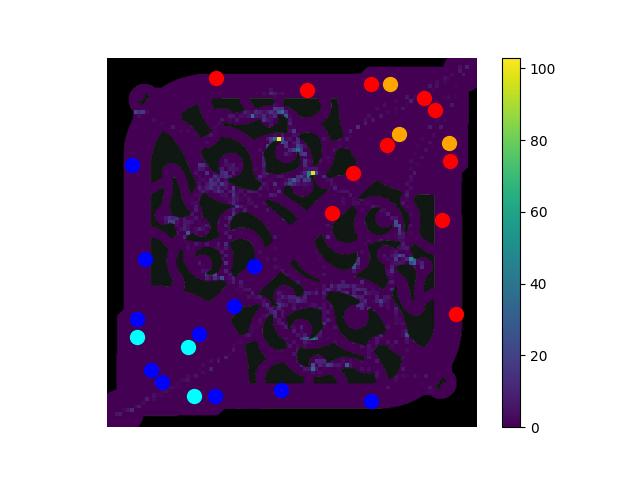
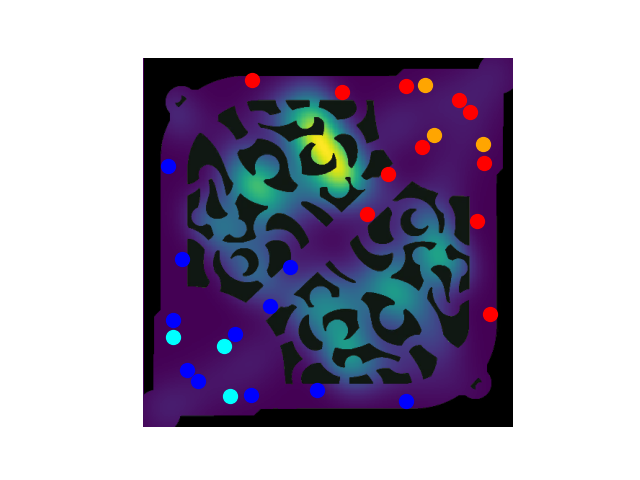
Adding Heatmap feature

diff --git a/src/main.py b/src/main.py
@@ -14,6 +14,7 @@ from utils_stuff.utils_func import getSummaryData, getData
 from utils_stuff.Types import *
 from utils_stuff.plots.plotsTeam import *
 from utils_stuff.stats import *
+from utils_stuff.plots.densityPlot import densityPlot
 from errorHandling import checkMatchName, checkTeamComposition
 
 from EMH.Details.DetailsData import DetailsData
@@ -32,6 +33,7 @@ if __name__ == "__main__":
     
     parser.add_argument("-p", "--pathing", action="store_true", default=False, help="Tells if we want to print pathing of players")
     parser.add_argument("-a", "--anim", action="store_true", default=False, help="Tells if we want to plot animations. Only with --pathing option")
+    parser.add_argument("-d", "--density", action="store_true", default=False, help="Tells if we want to plot the position density. Only with --pathing option")
     parser.add_argument("-g", "--game", metavar="[1|2|3|4|5|BO]", type=str, help="Game to analyse or if we want the whole Best-Off")
     parser.add_argument("-o", "--overview", action="store_true", default=False, help="Compute game stat of players")
     parser.add_argument("-t", "--time", metavar="[time_wanted_in_seconds]", type=int, help="Game time to analyse")
@@ -44,6 +46,7 @@ if __name__ == "__main__":
 
     pathing = False
     anim = False
+    density = False
     game = ""
     overview = False
     time = 0
@@ -65,13 +68,15 @@ if __name__ == "__main__":
             load = value
         if arg == "jungle_prox":
             jungleProximity = value
+        if arg == "density":
+            density = value
 
     yamlParser : YamlParer = YamlParer("./config.yml")
 
     assert checkMatchName(yamlParser, DATA_PATH)
 
     if pathing:
-        assert game != "BO"
+        
         
         # Loading data of the game
         match = yamlParser.ymlDict['match']
@@ -99,7 +104,11 @@ if __name__ == "__main__":
         if not(os.path.exists(yamlParser.ymlDict['save_path'] + "/Position/{}/".format(yamlParser.ymlDict['match']))):
             os.makedirs(yamlParser.ymlDict['save_path'] + "/Position/{}/".format(yamlParser.ymlDict['match']))
         if anim:
+            assert game != "BO"
             print("Ploting pathing with animation of game {} for players {}".format(game, playerNameList))
+            if not(os.path.exists("{}/Position/PositionAnimated/{}/".format(yamlParser.ymlDict['save_path'], yamlParser.ymlDict['match']))):
+                    os.makedirs("{}/Position/PositionAnimated/{}/".format(yamlParser.ymlDict['save_path'], yamlParser.ymlDict['match']))
+            
             i = 0
             for split in splittedDataset:
                 name = ""
@@ -108,7 +117,28 @@ if __name__ == "__main__":
                     path = "{}/Position/{}/".format(yamlParser.ymlDict['save_path'], yamlParser.ymlDict['match'])
                     plotBothTeamsPositionAnimated(playerNameList[0], playerNameList[1], split, name, path)        
                 i += 1
+        elif density:
+            if game != "BO":
+                print("Plotting position density of game {} for players {}".format(game, playerNameList))
+                if not(os.path.exists("{}/Position/PositionDensity/{}/".format(yamlParser.ymlDict['save_path'], yamlParser.ymlDict['match']))):
+                    os.makedirs("{}/Position/PositionDensity/{}/".format(yamlParser.ymlDict['save_path'], yamlParser.ymlDict['match']))
+                save_path = "{}/Position/PositionDensity/{}/".format(yamlParser.ymlDict['save_path'], yamlParser.ymlDict['match'])
+                
+                i = 0
+                print([len(split.gameSnapshotList) for split in splittedDataset])
+                for split in splittedDataset:
+                    graph_name = ""
+                    if i < len(splitList):
+                        # For team one
+                        graph_name = "position_density_teamOne_{}_g{}_{}".format(splitList[i], game, yamlParser.ymlDict['match'])
+                        densityPlot(playerNameList[0], graph_name, save_path, split)
+
+                        # For team two
+                        graph_name = "position_density_teamTwo_{}_g{}_{}".format(splitList[i], game, yamlParser.ymlDict['match'])
+                        densityPlot(playerNameList[1], graph_name, save_path, split)
+                    i += 1
         else:
+            assert game != "BO"
             print("Plotting pathing without animation of game {} for players {}".format(game, playerNameList))
             i = 0
             for split in splittedDataset:

diff --git a/src/utils_stuff/plots/densityPlot.py b/src/utils_stuff/plots/densityPlot.py
@@ -1,0 +1,62 @@
+import numpy as np
+from scipy.stats import gaussian_kde
+import matplotlib.pyplot as plt
+from PIL import Image
+
+from Separated.SeparatedData import SeparatedData
+from utils_stuff.Position import Position
+from utils_stuff.globals import *
+
+
+def densityPlot(participantNames : list[str], graphName : str, save_path : str, data : SeparatedData):
+    # Getting player positions
+    participantIds : list[int] = [data.getPlayerID(playerName) for playerName in participantNames]
+    participantPositions : list[Position] = list()
+    for playerId in participantIds:
+        participantPositions += data.getPlayerPositionHistory(playerId)
+
+    # Splitting positions and adding map borders to it
+    x = [(lambda pos : pos.x)(pos) for pos in participantPositions]
+    x.append(0)
+    x.append(MINIMAP_WIDTH)
+    x = np.array(x)
+
+    y = [(lambda pos : pos.y)(pos) for pos in participantPositions]
+    y.append(0)
+    y.append(MINIMAP_HEIGHT)
+    y = np.array(y)
+
+    # Evaluate a gaussian Kernel density estimation on our positions
+    nbins = 300
+    k = gaussian_kde([x, y])
+    xi, yi = np.mgrid[x.min():x.max():nbins*1j, y.min():y.max():nbins*1j] # Meshing our positions
+    zi = k(np.vstack([xi.flatten(), yi.flatten()])) # Making a kernel density estimation with a gaussian projection
+
+    # Making the plot
+    fig, ax = plt.subplots()
+    plt.pcolormesh(xi, yi, zi.reshape(xi.shape), shading='auto', zorder=-1)
+
+    # Plotting minimap
+    img = np.asarray(Image.open("../Summoner's_Rift_MinimapTransparent.webp"))
+    ax.imshow(img, extent=[0, MINIMAP_WIDTH, 0, MINIMAP_HEIGHT])
+
+    towerRedX = [pos.x for pos in towerPositionRedSide]
+    towerRedY = [pos.y for pos in towerPositionRedSide]
+    towerBlueX = [pos.x for pos in towerPositionBlueSide]
+    towerBlueY = [pos.y for pos in towerPositionBlueSide]
+
+    inhibitorRedX = [pos.x for pos in inhibitorPositionRedSide]
+    inhibitorRedY = [pos.y for pos in inhibitorPositionRedSide]
+    inhibitorBlueX = [pos.x for pos in inhibitorPositionBlueSide]
+    inhibitorBlueY = [pos.y for pos in inhibitorPositionBlueSide]
+
+    plt.scatter(towerRedX, towerRedY, color="Red", s=[100])
+    plt.scatter(towerBlueX, towerBlueY, color="Blue", s=[100])
+
+    plt.scatter(inhibitorRedX, inhibitorRedY, color="Orange", s=[100])
+    plt.scatter(inhibitorBlueX, inhibitorBlueY, color="Cyan", s=[100])
+    ax.set_aspect("equal", adjustable="box")
+    plt.axis('off')
+    plt.title(graphName)
+    plt.savefig("{}/{}.png".format(save_path, graphName))
+    plt.clf()

diff --git a/src/heatmap.py b/src/heatmap.py
@@ -1,5 +1,6 @@
 import numpy as np
 import matplotlib.pyplot as plt
+from scipy.stats import gaussian_kde
 
 from EMH.Summary.SummaryData import SummaryData
 from utils_stuff.utils_func import *
@@ -21,7 +22,6 @@ for subdir, dirs, _ in os.walk(rootdir):
 
 nbGameBo = len(dirList[0])
 gameList = dirList[0]
-
 all_position : list[Position] = []
 
 for gameIdx in gameList:
@@ -45,19 +45,30 @@ for gameIdx in gameList:
     participantID : int = splittedDatasetTemp[1].getPlayerID("T1 Oner")
     positionHistoryTemp = splittedDatasetTemp[1].getPlayerPositionHistory(participantID)
     all_position += positionHistoryTemp
-    print(len(all_position), len(positionHistoryTemp))
 
-
-
+# Splitting positions and adding map borders to it
 x = [(lambda pos : pos.x)(pos) for pos in all_position]
+x.append(0)
+x.append(MINIMAP_WIDTH)
 y = [(lambda pos : pos.y)(pos) for pos in all_position]
+y.append(0)
+y.append(MINIMAP_HEIGHT)
+
+x = np.array(x)
+y = np.array(y)
 
 fig, ax = plt.subplots()
 
-# Plotting the position heatmap
-h = ax.hist2d(x, y, bins=[np.arange(0,MINIMAP_WIDTH,150), np.arange(0,MINIMAP_HEIGHT,150)], alpha = 1, zorder=-1)
-# plt.show()
-fig.colorbar(h[3], ax=ax)
+
+# Evaluate a gaussian kde on a regular grid of nbins x nbins over data extents
+nbins=300
+k = gaussian_kde([x,y])
+xi, yi = np.mgrid[x.min():x.max():nbins*1j, y.min():y.max():nbins*1j] # Meshing our positions
+zi = k(np.vstack([xi.flatten(), yi.flatten()])) # Making a kernel density estimation with a gaussian projection
+
+# Make the plot
+plt.pcolormesh(xi, yi, zi.reshape(xi.shape), shading='auto', zorder=-1)
+# plt.colorbar()
 
 # Plotting minimap
 img = np.asarray(Image.open("../Summoner's_Rift_MinimapTransparent.webp"))
